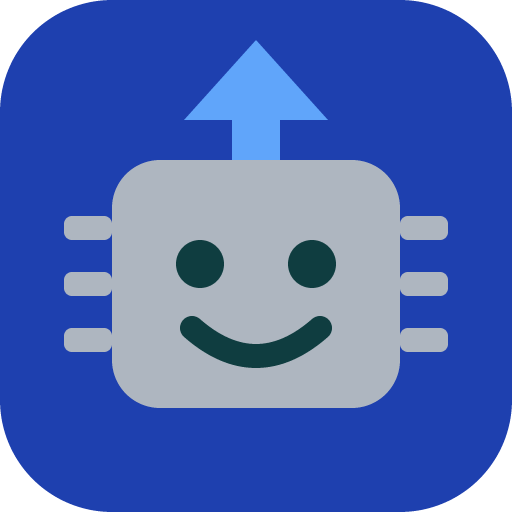
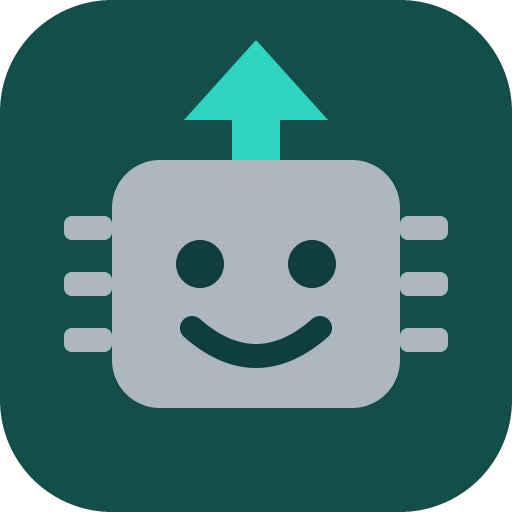
Grey robot face, deep site-colour tile, arrow in the site colour
The face was white; now it is grey so the logo reads as a robot, not a
skin tone. The three sites share the recipe: uploadmycode teal, uploadmylaser
purple, uploadmymodel orange. theme-color and the manifest match the tile.

diff --git a/public/index.html b/public/index.html
@@ -10,7 +10,7 @@
     <link rel="icon" href="/favicon-32.png" sizes="32x32" type="image/png">
     <link rel="apple-touch-icon" href="/apple-touch-icon.png">
     <link rel="manifest" href="/manifest.webmanifest">
-    <meta name="theme-color" content="#1E40AF">
+    <meta name="theme-color" content="#134E4A">
     <!-- Blocking on purpose: sets data-theme before the first paint. -->
     <script src="/theme-boot.js"></script>
   <script type="module" crossorigin src="/assets/index-BsmQDiRL.js"></script>

diff --git a/web/index.html b/web/index.html
@@ -10,7 +10,7 @@
     <link rel="icon" href="/favicon-32.png" sizes="32x32" type="image/png">
     <link rel="apple-touch-icon" href="/apple-touch-icon.png">
     <link rel="manifest" href="/manifest.webmanifest">
-    <meta name="theme-color" content="#1E40AF">
+    <meta name="theme-color" content="#134E4A">
     <!-- Blocking on purpose: sets data-theme before the first paint. -->
     <script src="/theme-boot.js"></script>
 </head>

diff --git a/public/display.html b/public/display.html
@@ -129,7 +129,7 @@
     <link rel="icon" href="/favicon-32.png" sizes="32x32" type="image/png">
     <link rel="apple-touch-icon" href="/apple-touch-icon.png">
     <link rel="manifest" href="/manifest.webmanifest">
-    <meta name="theme-color" content="#1E40AF">
+    <meta name="theme-color" content="#134E4A">
 </head>
 	<body data-state="start" data-fullscreen="no">
 		<main id="stage">

diff --git a/web/public/display.html b/web/public/display.html
@@ -129,7 +129,7 @@
     <link rel="icon" href="/favicon-32.png" sizes="32x32" type="image/png">
     <link rel="apple-touch-icon" href="/apple-touch-icon.png">
     <link rel="manifest" href="/manifest.webmanifest">
-    <meta name="theme-color" content="#1E40AF">
+    <meta name="theme-color" content="#134E4A">
 </head>
 	<body data-state="start" data-fullscreen="no">
 		<main id="stage">

diff --git a/public/teacher.html b/public/teacher.html
@@ -165,7 +165,7 @@
     <link rel="icon" href="/favicon-32.png" sizes="32x32" type="image/png">
     <link rel="apple-touch-icon" href="/apple-touch-icon.png">
     <link rel="manifest" href="/manifest.webmanifest">
-    <meta name="theme-color" content="#1E40AF">
+    <meta name="theme-color" content="#134E4A">
 </head>
 	<body>
 		<h1>uploadmycode - teacher</h1>

diff --git a/web/public/teacher.html b/web/public/teacher.html
@@ -165,7 +165,7 @@
     <link rel="icon" href="/favicon-32.png" sizes="32x32" type="image/png">
     <link rel="apple-touch-icon" href="/apple-touch-icon.png">
     <link rel="manifest" href="/manifest.webmanifest">
-    <meta name="theme-color" content="#1E40AF">
+    <meta name="theme-color" content="#134E4A">
 </head>
 	<body>
 		<h1>uploadmycode - teacher</h1>

diff --git a/public/serial-test.html b/public/serial-test.html
@@ -52,7 +52,7 @@
     <link rel="icon" href="/favicon-32.png" sizes="32x32" type="image/png">
     <link rel="apple-touch-icon" href="/apple-touch-icon.png">
     <link rel="manifest" href="/manifest.webmanifest">
-    <meta name="theme-color" content="#1E40AF">
+    <meta name="theme-color" content="#134E4A">
 </head>
 	<body>
 		<h1>Web Serial test</h1>

diff --git a/web/public/serial-test.html b/web/public/serial-test.html
@@ -52,7 +52,7 @@
     <link rel="icon" href="/favicon-32.png" sizes="32x32" type="image/png">
     <link rel="apple-touch-icon" href="/apple-touch-icon.png">
     <link rel="manifest" href="/manifest.webmanifest">
-    <meta name="theme-color" content="#1E40AF">
+    <meta name="theme-color" content="#134E4A">
 </head>
 	<body>
 		<h1>Web Serial test</h1>
